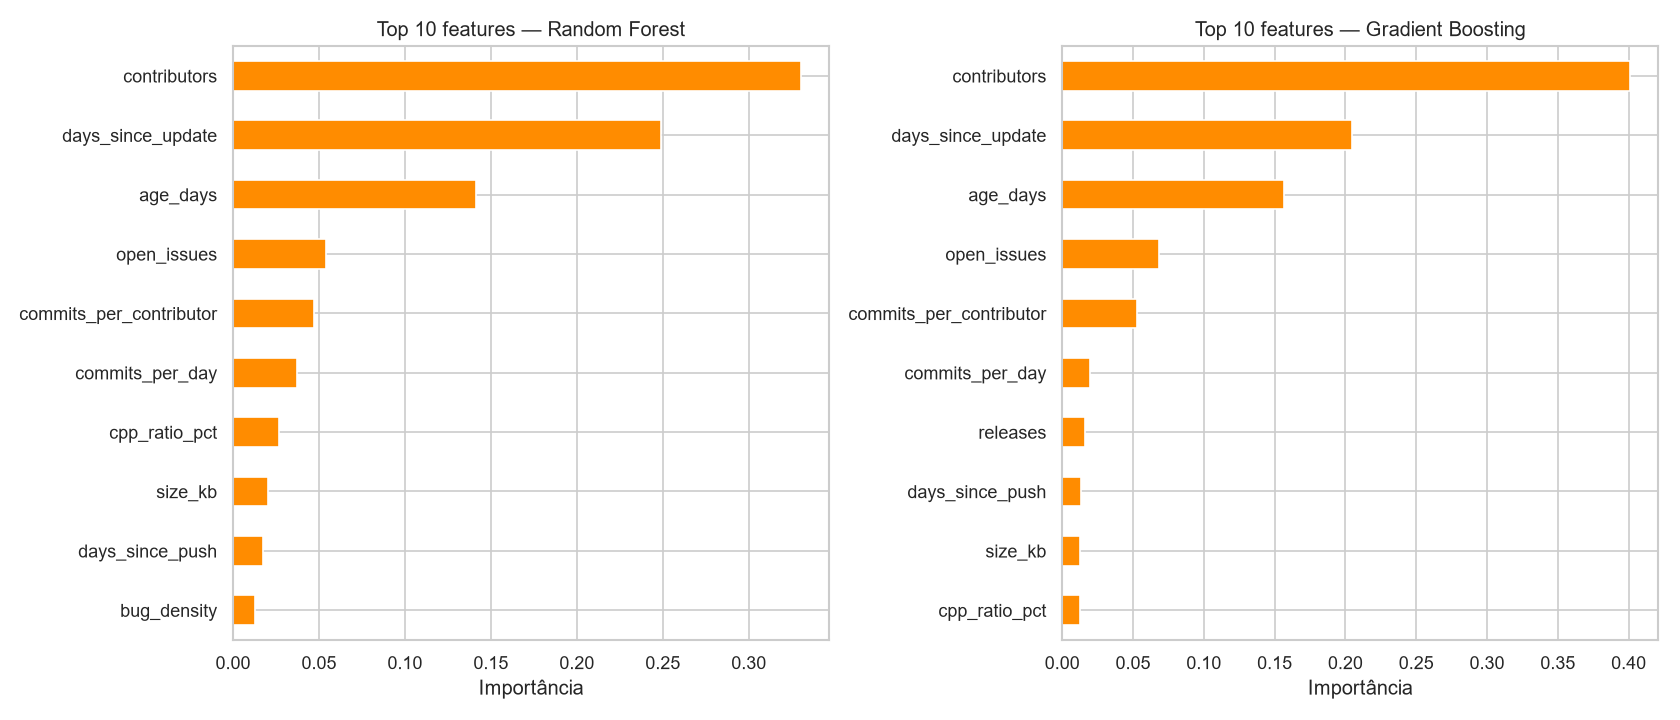
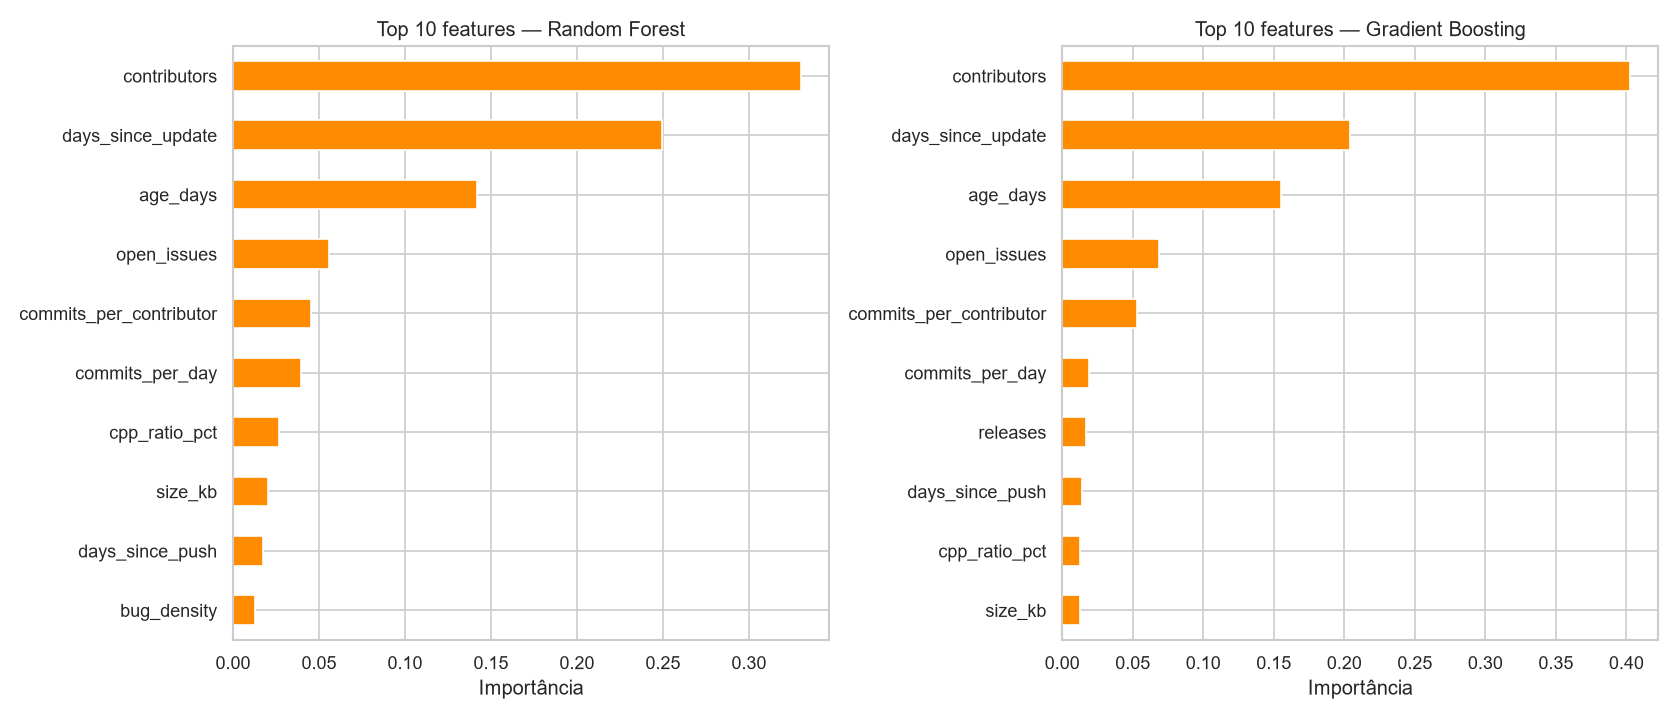
-m

diff --git a/02_limpeza_e_feature_engineering.py b/02_limpeza_e_feature_engineering.py
@@ -232,6 +232,49 @@ df["log_stars"] = np.log1p(df["stars"])
 
 
 # %% [markdown]
+# ### 7.4 Tratando outlier extremo via transformação logarítmica
+#
+# Ao investigar a instabilidade da Regressão Linear, identificamos que o
+# repositório **CleverRaven/Cataclysm-DDA** é um outlier extremo em várias
+# métricas simultaneamente — ele tem **283x** o `size_kb` mediano, **318x**
+# `contributors`, **159x** `commits_total` e **8.659x** `releases`. É um
+# projeto de escala muito maior que os demais (um dos maiores roguelikes
+# colaborativos open source).
+#
+# Esse tipo de distribuição de "cauda longa" é comum em métricas de
+# contagem de repositórios de software (commits, contribuidores, tamanho,
+# releases) e é a mesma razão pela qual aplicamos `log1p` em `stars`.
+# Aplicar a mesma transformação aqui:
+#
+# - reduz drasticamente a assimetria dessas variáveis (ex: `size_kb` tem
+#   assimetria 5.58, cai para -0.44 com log1p);
+# - faz com que o outlier deixe de "dominar" o `StandardScaler` e a
+#   Regressão Linear/Ridge;
+# - tende a deixar a relação com `log_stars` mais linear (relações do tipo
+#   "quanto mais commits, mais estrelas" costumam ser melhor descritas em
+#   escala log-log).
+#
+# Modelos baseados em árvore (Random Forest, Gradient Boosting) são
+# praticamente imunes a esse problema, mas aplicamos a transformação em
+# todos os modelos para manter a comparação justa (mesmo conjunto de
+# features para os três).
+
+# %%
+LOG_TRANSFORM_COLS = [
+    "size_kb", "commits_total", "contributors", "releases",
+    "open_issues", "closed_issues", "commits_per_day",
+    "commits_per_contributor", "issues_per_contributor", "releases_per_year",
+]
+
+print("Assimetria antes -> depois do log1p:")
+for col in LOG_TRANSFORM_COLS:
+    antes = df[col].skew()
+    df[col] = np.log1p(df[col])
+    depois = df[col].skew()
+    print(f"  {col:25s} {antes:7.2f} -> {depois:6.2f}")
+
+
+# %% [markdown]
 # ## 8. Definindo o conjunto final de features
 #
 # Reunindo todas as decisões:
@@ -239,8 +282,20 @@ df["log_stars"] = np.log1p(df["stars"])
 # - Remover colunas com data leakage (`watchers`, `forks`, e o próprio `stars`)
 # - Remover colunas quase constantes (`is_fork`)
 # - Remover colunas originais já substituídas (`license`, `license_grouped`, `topics`)
+# - Remover colunas que são **somas exatas** de outras colunas já presentes
+#
+# Sobre o último ponto: `bugs_total = bugs_open + bugs_closed` e
+# `total_issues = open_issues + closed_issues` são combinações lineares
+# exatas de outras features. Isso causa *multicolinearidade perfeita*,
+# que deixa modelos lineares (Regressão Linear/Ridge) numericamente
+# instáveis — os coeficientes podem "explodir" e gerar previsões absurdas.
+# Modelos baseados em árvore não são afetados, mas removemos essas colunas
+# de qualquer forma para manter o MESMO conjunto de features em todos os
+# modelos (comparação justa).
 
 # %%
+REDUNDANT_SUM_COLS = ["bugs_total", "total_issues"]
+
 ID_COLS = [
     "repo_id", "owner", "name", "full_name", "url",
     "description", "created_at", "pushed_at",
@@ -250,6 +305,7 @@ COLS_TO_DROP_FROM_FEATURES = (
     ID_COLS
     + LEAKAGE_COLS
     + NEAR_CONSTANT_COLS
+    + REDUNDANT_SUM_COLS
     + ["license", "license_grouped", "topics"]
     + ["stars"]  # variável original; usamos log_stars como alvo
 )

diff --git a/03_treino_e_avaliacao_modelos.py b/03_treino_e_avaliacao_modelos.py
@@ -23,7 +23,7 @@ import seaborn as sns
 from sklearn.model_selection import train_test_split, KFold, cross_val_score
 from sklearn.preprocessing import StandardScaler
 from sklearn.pipeline import Pipeline
-from sklearn.linear_model import LinearRegression
+from sklearn.linear_model import RidgeCV
 from sklearn.ensemble import RandomForestRegressor, GradientBoostingRegressor
 from sklearn.metrics import mean_squared_error, mean_absolute_error, r2_score
 
@@ -69,9 +69,17 @@ print(f"Teste:  {X_test.shape[0]} repositórios")
 # %% [markdown]
 # ## 3. Definindo os modelos
 #
-# A Regressão Linear é sensível à escala das variáveis (ex: `commits_total`
-# vai até milhares, enquanto `cpp_ratio_pct` vai até 100). Por isso usamos
-# um `Pipeline` com `StandardScaler` antes dela.
+# **Regressão Linear (Ridge):** usamos `Ridge` em vez de `LinearRegression`
+# pura. Com 38 features para apenas 120 exemplos de treino — e algumas
+# features correlacionadas entre si — a Regressão Linear comum (OLS) fica
+# numericamente instável e pode gerar coeficientes e previsões absurdas.
+# `Ridge` adiciona um termo de regularização (penaliza coeficientes muito
+# grandes), o que resolve esse problema mantendo o modelo linear e
+# interpretável. `RidgeCV` escolhe automaticamente, via validação cruzada,
+# a força ideal dessa regularização (`alpha`).
+#
+# Como é sensível à escala das variáveis, usamos um `Pipeline` com
+# `StandardScaler` antes do Ridge.
 #
 # Random Forest e Gradient Boosting são baseados em árvores de decisão e
 # não são afetados pela escala das variáveis, então não precisam de scaler.
@@ -82,9 +90,9 @@ print(f"Teste:  {X_test.shape[0]} repositórios")
 
 # %%
 models = {
-    "Regressão Linear": Pipeline([
+    "Regressão Linear (Ridge)": Pipeline([
         ("scaler", StandardScaler()),
-        ("model", LinearRegression()),
+        ("model", RidgeCV(alphas=np.logspace(-2, 3, 20))),
     ]),
     "Random Forest": RandomForestRegressor(
         n_estimators=200, max_depth=6, random_state=RANDOM_STATE
@@ -227,20 +235,24 @@ plt.show()
 
 
 # %% [markdown]
-# ## 8. Coeficientes da Regressão Linear
+# ## 8. Coeficientes da Regressão Linear (Ridge)
 #
 # Diferente das árvores, a Regressão Linear tem coeficientes
 # interpretáveis diretamente: o sinal indica se a relação é positiva
 # ou negativa, e a magnitude (com dados padronizados) indica a força
-# da relação.
+# da relação. Com Ridge, os coeficientes ficam "encolhidos" (mais
+# próximos de zero) em comparação ao OLS puro — isso é esperado e é
+# o que garante a estabilidade do modelo.
 
 # %%
-linear_model = models["Regressão Linear"].named_steps["model"]
+linear_model = models["Regressão Linear (Ridge)"].named_steps["model"]
+print(f"Alpha escolhido pelo RidgeCV: {linear_model.alpha_:.4f}")
+
 coefs = pd.Series(linear_model.coef_, index=feature_cols).sort_values()
 
 fig, ax = plt.subplots(figsize=(8, 10))
 coefs.plot(kind="barh", ax=ax, color="seagreen")
-ax.set_title("Coeficientes da Regressão Linear (dados padronizados)")
+ax.set_title("Coeficientes da Regressão Linear / Ridge (dados padronizados)")
 ax.axvline(0, color="black", linewidth=0.8)
 plt.tight_layout()
 plt.savefig("figures/coeficientes_regressao_linear.png", dpi=120)